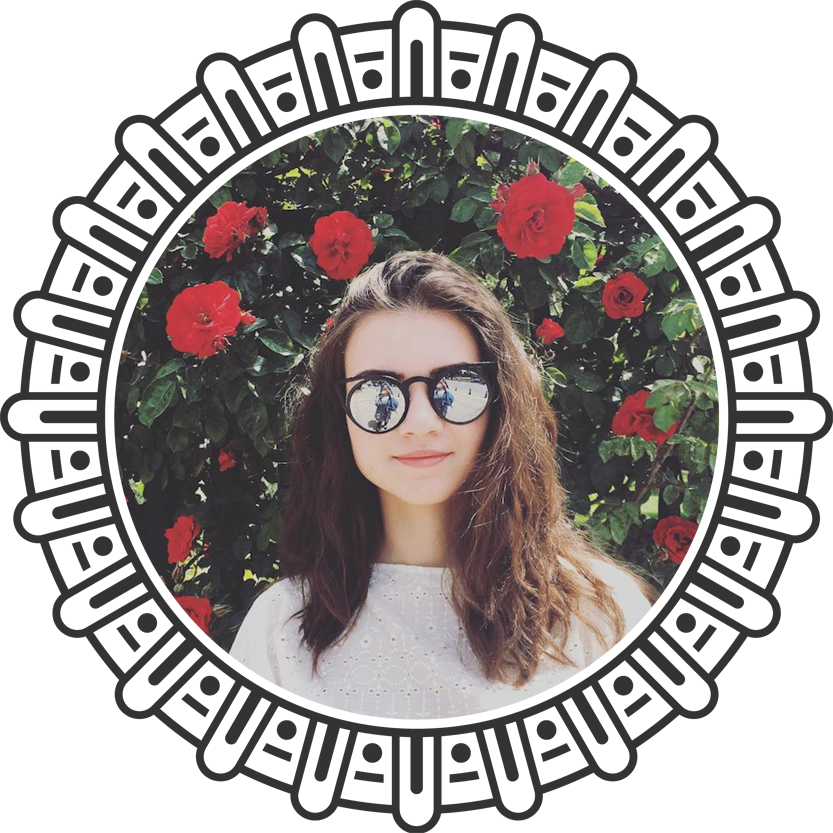
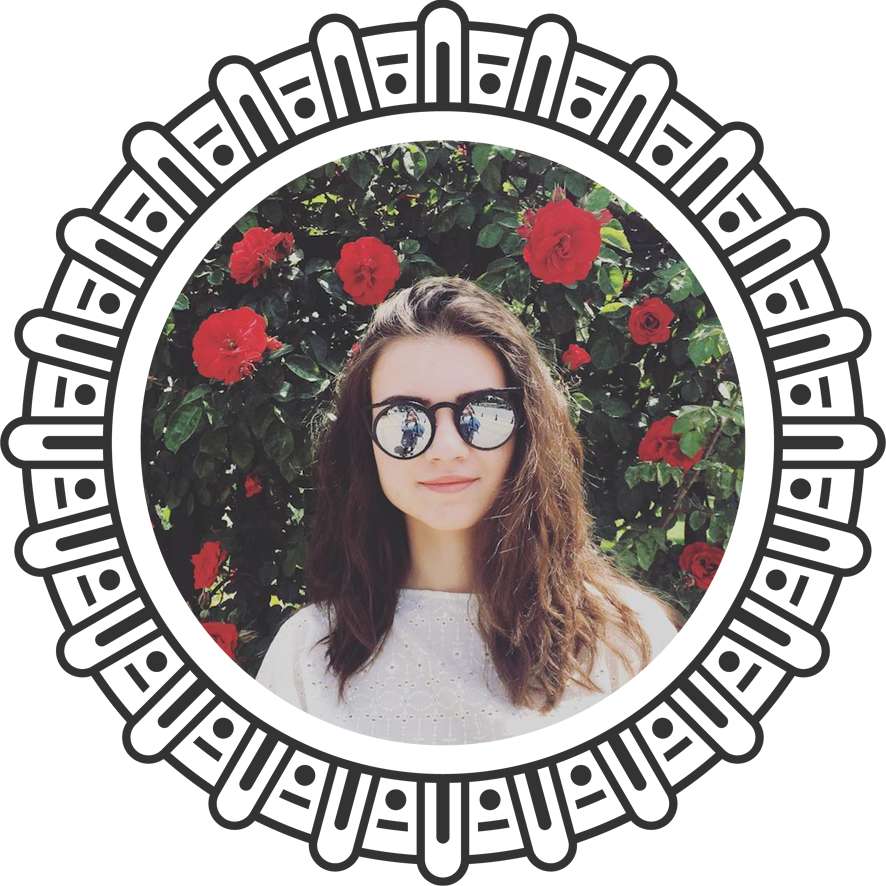
New features

diff --git a/index.html b/index.html
@@ -27,68 +27,103 @@
 	<!-- Scripts–––––––––––––––––––––––––––––––––––––– -->
 	<script src="https://ajax.googleapis.com/ajax/libs/jquery/3.3.1/jquery.min.js">
 	<script src="js/jquery.fancybox.min.js"></script>
+	<script> 
+   $(function(){
+       $('#portfolio').load("portfolio.html");
+   });
+    </script>
 	
 </head>
 <body>
 
 	<div class="container">
 		<div class="heading">
-			<img class="profile" src="images/profile-2.png">
+			<img class="profile" src="images/profile.png">
 			<h1>Alana Mamedova</h1>
 			<h6>architect & designer</h6>
 		</div>
 		
 		<hr>
 		
+		<div class="about">
+			<h3>About Me</h3>
+			<p>Hi.  I'm an architect and a designer with passion great passion and creativity.  You can view some of my work and my history on here.  Please say hi and <a id="contactme" href="#">contact me</a> if you have any questions or propositions.</p>
+
+			<a class="button" href="https://goo.gl/cmb27c">Check out my Instagram</a>
+			
+		</div>
+		
+		<hr>
+		
 		<div class="portfolio">
 			<h3>Portfolio</h3>
+			<div id="portfolio"></div>
+		</div>
+	
+		<hr>
+		
+		<div class="skills">
+			<h3>Skills</h3>
 			<div class="row">
-				<div class="four columns">
-					<a href="images/building1-1.jpeg" data-fancybox="building1" data-caption="Caption #1">
-						<img class="thumb" src="images/building1-thumb.jpg" alt="">
-					</a>
-					<a href="images/building1-2.jpeg" data-fancybox="building1" data-caption="Caption #1">
-					</a>
-					<a href="images/building1-3.jpeg" data-fancybox="building1" data-caption="Caption #1">
-					</a>
-					<a href="images/building1-4.jpeg" data-fancybox="building1" data-caption="Caption #1">
-					</a>
-					<a href="images/building1-5.jpeg" data-fancybox="building1" data-caption="Caption #1">
-					</a>
+				<div class="six columns">
+					<div class="skillbar clearfix " data-percent="100%">
+						<div class="skillbar-title" style="background: #d35400;"><span>AutoCAD</span></div>
+						<div class="skillbar-bar" style="background: #e67e22;"></div>
+					</div>
+
+					<div class="skillbar clearfix " data-percent="100%">
+						<div class="skillbar-title" style="background: #2980b9;"><span>SketchUP</span></div>
+						<div class="skillbar-bar" style="background: #3498db;"></div>
+					</div>
+
+					<div class="skillbar clearfix " data-percent="60%">
+						<div class="skillbar-title" style="background: #124e8c;"><span>Illustrator</span></div>
+						<div class="skillbar-bar" style="background: #4288d0;"></div>
+					</div>
 				</div>
-				<div class="four columns">
-					<a href="images/building2-1.jpg" data-fancybox="building2" data-caption="Caption #1">
-						<img class="thumb" src="images/building2-thumb.jpeg" alt="">
-					</a>
-					<a href="images/building2-2.jpg" data-fancybox="building2" data-caption="Caption #1">
-					</a>
-					<a href="images/building2-3.jpg" data-fancybox="building2" data-caption="Caption #1">
-					</a>
-					<a href="images/building2-4.jpg" data-fancybox="building2" data-caption="Caption #1">
-					</a>
-					<a href="images/building2-5.jpg" data-fancybox="building2" data-caption="Caption #1">
-					</a>
-				</div>
-				<div class="four columns">
-					<a href="images/building3-1.jpeg" data-fancybox="building3" data-caption="Caption #1">
-						<img class="thumb" src="images/building3-thumb.jpg" alt="">
-					</a>
-					<a href="images/building3-2.jpeg" data-fancybox="building3" data-caption="Caption #1">
-					</a>
-					<a href="images/building3-3.jpeg" data-fancybox="building3" data-caption="Caption #1">
-					</a>
+				<div class="six columns">
+					<div class="skillbar clearfix " data-percent="100%">
+						<div class="skillbar-title" style="background: #46465e;"><span>Lumion</span></div>
+						<div class="skillbar-bar" style="background: #5a68a5;"></div>
+					</div>
+					
+					<div class="skillbar clearfix " data-percent="100%">
+						<div class="skillbar-title" style="background: #2c3e50;"><span>Photoshop</span></div>
+						<div class="skillbar-bar" style="background: #2c3e50;"></div>
+					</div>
+					
+					<div class="skillbar clearfix " data-percent="40%">
+						<div class="skillbar-title" style="background: #333333;"><span>Rhino</span></div>
+						<div class="skillbar-bar" style="background: #525252;"></div>
+					</div>
 				</div>
 			</div>
 		</div>
 	
 		<hr>
-	</div>
+		
+		<div class="contact">
+			<h3>Contact</h3>
+			<form action="https://formspree.io/ktosayev@gmail.com" method="POST">
+				<label for="emailInput">Your email</label>
+				<input class="u-full-width" type="email" placeholder="you@mailbox.com" id="emailInput" name="email">
+				<label for="message">Message</label>
+				<textarea class="u-full-width" placeholder="Hi Alana …" id="message"></textarea>
+				<input class="button-primary" type="submit" value="Submit">
+			</form>
+
+		</div>
+		<hr>
+		<div class="footer">
+			<p>&copy; Copyright 2018 Alana Mamedova. All rights reserved.</p>
+		</div>
+		
 <script src="js/jquery.fancybox.min.js"></script>
-<script type="text/javascript">
+<script>
 	$("[data-fancybox]").fancybox({
 		loop : true,
 		buttons : [
-    	    //'slideShow',
+	  	    //'slideShow',
     	    'fullScreen',
     	    //'thumbs',
     	    //'share',
@@ -96,6 +131,25 @@
     	    //'zoom',
     	    'close'
     	],
+    	
+	});
+</script>
+
+<script>
+	jQuery(document).ready(function(){
+		jQuery('.skillbar').each(function(){
+			jQuery(this).find('.skillbar-bar').animate({
+				width:jQuery(this).attr('data-percent')
+			},3000);
+		});
+	});
+</script>
+
+<script>
+	$("#contactme").click(function() {
+    $('html,body').animate({
+        scrollTop: $(".contact").offset().top},
+        'slow');
 	});
 </script>
 </body>

diff --git a/portfolio.html b/portfolio.html
@@ -1,0 +1,70 @@
+<div class="row">
+	<div class="four columns">
+		<a href="images/portfolio/building1-1.jpeg" data-fancybox="building1" data-caption="Building 1 Caption #1">
+			<img class="thumb" src="images/portfolio/building1-thumb.jpg" alt="">
+		</a>
+		<a href="images/portfolio/building1-2.jpeg" data-fancybox="building1" data-caption="Building 1 Caption #2">
+		</a>
+		<a href="images/portfolio/building1-3.jpeg" data-fancybox="building1" data-caption="Building 1 Caption #3">
+		</a>
+		<a href="images/portfolio/building1-4.jpeg" data-fancybox="building1" data-caption="Building 1 Caption #4">
+		</a>
+		<a href="images/portfolio/building1-5.jpeg" data-fancybox="building1" data-caption="Building 1 Caption #5">
+		</a>
+	</div>
+	<div class="four columns">
+		<a href="images/portfolio/building2-1.jpg" data-fancybox="building2" data-caption="Building 2 Caption #1">
+			<img class="thumb" src="images/portfolio/building2-thumb.jpeg" alt="">
+		</a>
+		<a href="images/portfolio/building2-2.jpg" data-fancybox="building2" data-caption="Building 2 Caption #2">
+		</a>
+		<a href="images/portfolio/building2-3.jpg" data-fancybox="building2" data-caption="Building 2 Caption #3">
+		</a>
+		<a href="images/portfolio/building2-4.jpg" data-fancybox="building2" data-caption="Building 2 Caption #4">
+		</a>
+		<a href="images/portfolio/building2-5.jpg" data-fancybox="building2" data-caption="Building 2 Caption #5">
+		</a>
+	</div>
+	<div class="four columns">
+		<a href="images/portfolio/building3-1.jpeg" data-fancybox="building3" data-caption="Building 3 Caption #1">
+			<img class="thumb" src="images/portfolio/building3-thumb.jpg" alt="">
+		</a>
+		<a href="images/portfolio/building3-2.jpeg" data-fancybox="building3" data-caption="Building 3 Caption #2">
+		</a>
+		<a href="images/portfolio/building3-3.jpeg" data-fancybox="building3" data-caption="Building 3 Caption #3">
+		</a>
+	</div>
+</div>
+<div class="row">
+	<div class="four columns">
+		<a href="images/portfolio/building4-1.jpg" data-fancybox="building4" data-caption="Building 4 Caption #1">
+			<img class="thumb" src="images/portfolio/building4-thumb.jpg" alt="">
+		</a>
+		<a href="images/portfolio/building4-2.jpg" data-fancybox="building4" data-caption="Building 4 Caption #2">
+		</a>
+		<a href="images/portfolio/building4-3.jpg" data-fancybox="building4" data-caption="Building 4 Caption #3">
+		</a>
+		<a href="images/portfolio/building4-4.jpg" data-fancybox="building4" data-caption="Building 4 Caption #4">
+		</a>
+		<a href="images/portfolio/building4-5.jpg" data-fancybox="building4" data-caption="Building 4 Caption #5">
+		</a>
+	</div>
+	<div class="four columns">
+		<a href="images/portfolio/building5-1.jpg" data-fancybox="building5" data-caption="Building 5 Caption #1">
+			<img class="thumb" src="images/portfolio/building5-thumb.jpg" alt="">
+		</a>
+		<a href="images/portfolio/building5-2.jpg" data-fancybox="building5" data-caption="Building 5 Caption #2">
+		</a>
+		<a href="images/portfolio/building5-3.jpg" data-fancybox="building5" data-caption="Building 5 Caption #3">
+		</a>
+	</div>
+	<div class="four columns">
+		<a href="images/portfolio/building6-1.jpg" data-fancybox="building6" data-caption="Building 6 Caption #1">
+			<img class="thumb" src="images/portfolio/building6-thumb.jpg" alt="">
+		</a>
+		<a href="images/portfolio/building6-2.jpg" data-fancybox="building6" data-caption="Building 6 Caption #2">
+		</a>
+		<a href="images/portfolio/building6-3.jpg" data-fancybox="building6" data-caption="Building 6 Caption #3">
+		</a>
+	</div>
+</div>

diff --git a/css/custom.css b/css/custom.css
@@ -37,3 +37,89 @@ h3 {
 .thumb {
 	width:100%;
 }
+
+.thumb:hover {
+	opacity:0.7;
+}
+
+.about {
+	text-align:center;
+}
+.about p {
+	width:80%;
+	margin:40px auto;
+}
+
+.skillbar {
+	position:relative;
+	display:block;
+	margin-bottom:15px;
+	width:100%;
+	background:#eee;
+	height:35px;
+	border-radius:3px;
+	-moz-border-radius:3px;
+	-webkit-border-radius:3px;
+	-webkit-transition:0.4s linear;
+	-moz-transition:0.4s linear;
+	-ms-transition:0.4s linear;
+	-o-transition:0.4s linear;
+	transition:0.4s linear;
+	-webkit-transition-property:width, background-color;
+	-moz-transition-property:width, background-color;
+	-ms-transition-property:width, background-color;
+	-o-transition-property:width, background-color;
+	transition-property:width, background-color;
+}
+
+.skillbar-title {
+	position:absolute;
+	top:0;
+	left:0;
+width:120px;
+	font-weight:bold;
+	font-size:13px;
+	color:#ffffff;
+	background:#6adcfa;
+	-webkit-border-top-left-radius:3px;
+	-webkit-border-bottom-left-radius:4px;
+	-moz-border-radius-topleft:3px;
+	-moz-border-radius-bottomleft:3px;
+	border-top-left-radius:3px;
+	border-bottom-left-radius:3px;
+}
+
+.skillbar-title span {
+	display:block;
+	background:rgba(0, 0, 0, 0.1);
+	padding:0 20px;
+	height:35px;
+	line-height:35px;
+	-webkit-border-top-left-radius:3px;
+	-webkit-border-bottom-left-radius:3px;
+	-moz-border-radius-topleft:3px;
+	-moz-border-radius-bottomleft:3px;
+	border-top-left-radius:3px;
+	border-bottom-left-radius:3px;
+}
+
+.skillbar-bar {
+	height:35px;
+	width:0px;
+	background:#6adcfa;
+	border-radius:3px;
+	-moz-border-radius:3px;
+	-webkit-border-radius:3px;
+}
+
+@media (min-width: 550px) {
+	form {
+		max-width:80%;
+		margin:auto;
+	}
+}
+
+.footer {
+	text-align:center;
+	margin-top:100px;
+}
